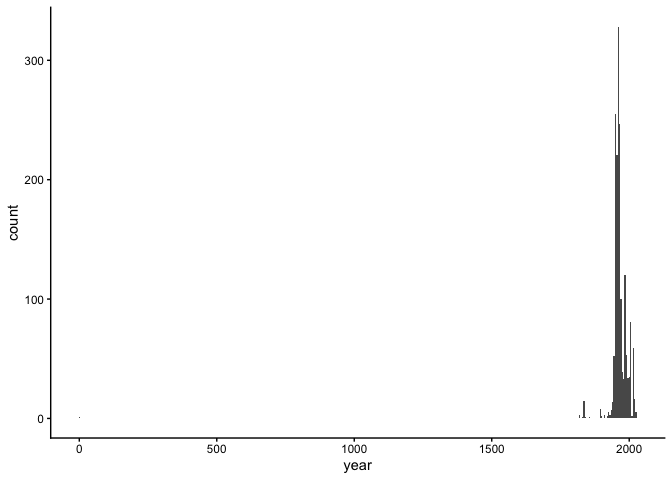
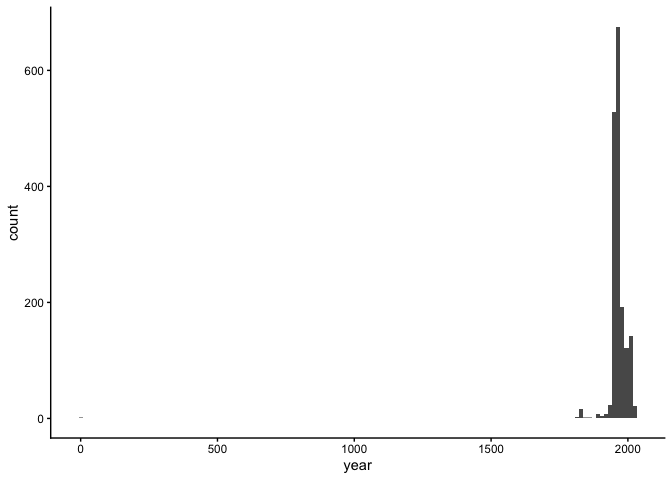
Done!

diff --git a/lab-08.md b/lab-08.md
@@ -46,6 +46,13 @@ uoe_art <- uoe_art %>%
 Warning 1: Some pieces were discarded Warning 2: Missing pieces filled
 with NA Warning 3: NAs introduced by coercion
 
+Basically, the date column is messy and inconsistent, so when R tries to
+split and parse it, some rows have too much or too little data, and some
+can’t be converted to a number. R either discards the extra stuff or
+fills in NA for what it can’t figure out. Since we only want the year
+when it’s easy to grab, NA is fine for the messy rows (essentially,
+we’re not losing anything meaningful).
+
 ## Exercise 11
 
 Our output demonstrates that `108` pieces have missing artist info and
@@ -85,12 +92,12 @@ Data summary
 
 ## Exercise 12
 
-Our histogram demonstrates that there might be some outliers, but it’s
-hard to tell visually.
+Our histogram demonstrates that there might be an outlier around year 0,
+but it’s hard to tell visually.
 
 ``` r
 ggplot(uoe_art, aes(x = year)) +
-  geom_histogram(binwidth = 5) +
+  geom_histogram(binwidth = 15) +
   theme_classic()
 ```
 
@@ -99,7 +106,8 @@ ggplot(uoe_art, aes(x = year)) +
 
 ![](lab-08_files/figure-gfm/simple-histogram-1.png)<!-- -->
 
-Let’s check for outliers using arrange.
+Let’s check for outliers using arrange. There’s an outlier, “Death Mask”
+at year 2.
 
 ``` r
 uoe_art %>%
@@ -119,6 +127,10 @@ uoe_art %>%
     ## 6 "Crouching Venus "       Sarti          1834 ./record/20572?highlight=*:*
 
 # Exercise 13
+
+The painting title “Death Mask (2) (1964)” has two sets of parentheses,
+so separate() split on the first one and captured 2 instead of 1964 as
+the year.
 
 ``` r
 uoe_art <- uoe_art %>%
@@ -153,7 +165,11 @@ uoe_art %>%
 
 The most commonly featured artist in the collection is **“Unknown”**.
 The university likely has many pieces of unknown artists because they
-might have been found or donated without any identifying information.
+might have been found or donated without any identifying information. I
+did know about Emma Gillies because my sister was an art history major
+at the University of Edinburgh :-). I did not know NA was also an
+artist - I’ve only encountered them in my data. Nice to hear they have a
+hobby too…
 
 # Exercise 15
 
